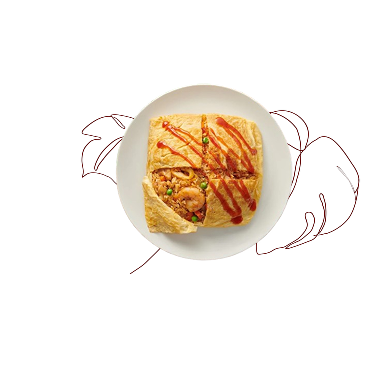
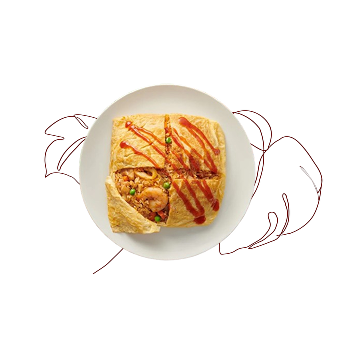
style: adjust image position

diff --git a/web/css/foods.css b/web/css/foods.css
@@ -40,7 +40,7 @@
     background-color: #D8C799;
     position: relative;
     border-radius: 20px;
-    padding: 10px;
+    padding: 10px 5px;
     width: 31%;
     height: 17.5vw;
     transition: transform 0.4s ease;
@@ -140,8 +140,8 @@ p.price {
 
 .nasipattaya {
     position: absolute;
-    right: 40px;
-    top: 5px
+    right: 20px;
+    top: -20px
 }
 
 .nasigoreng {
@@ -346,6 +346,36 @@ p.price {
         margin-top: 30px;
     }
 
+    .nasipattaya {
+        top: 0;
+    }
+
+    .friedrice {
+        top: 20px;
+    }
+
+    .duckrice {
+        top: 30px;
+    }
+
+    .curryfish {
+        left: -50px;
+        top: 30px;
+    }
+
+    .currymee {
+        top: 5px;
+    }
+
+    .maggigoreng {
+        top: 40px;
+    }
+
+    .meegoreng {
+        right: 20px;
+        top: 40px;
+    }
+
     .brown-card {
         height: 36vw;
         width: 55%;
@@ -392,14 +422,14 @@ p.price {
     }
 
     .pastry-price-tag {
-        right: -3vw;
+        right: -1vw;
     }
 
     .curry-puff .pastry-price-tag {
-        right: -3vw;
+        right: -1vw;
     }
 
     .croissant .pastry-price-tag {
-        right: -3vw;
+        right: -1vw;
     }
 }
